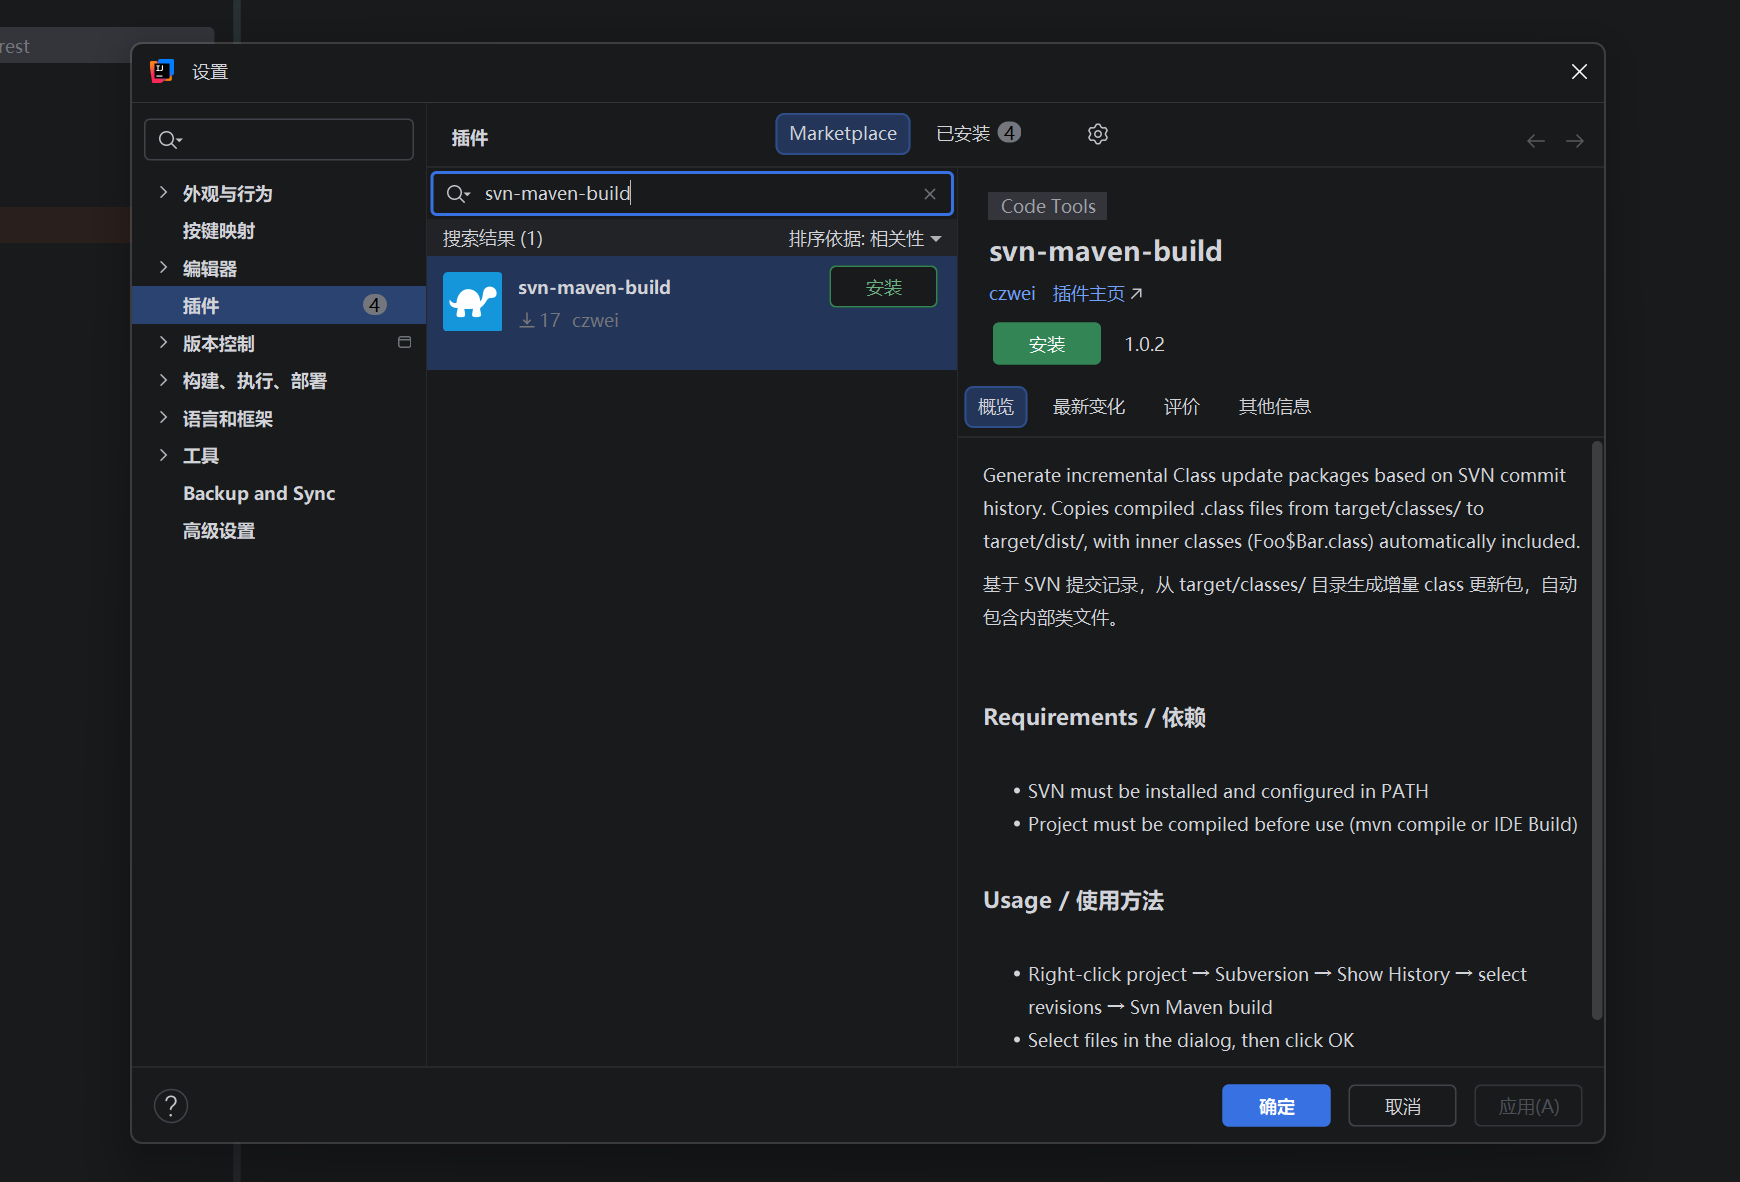
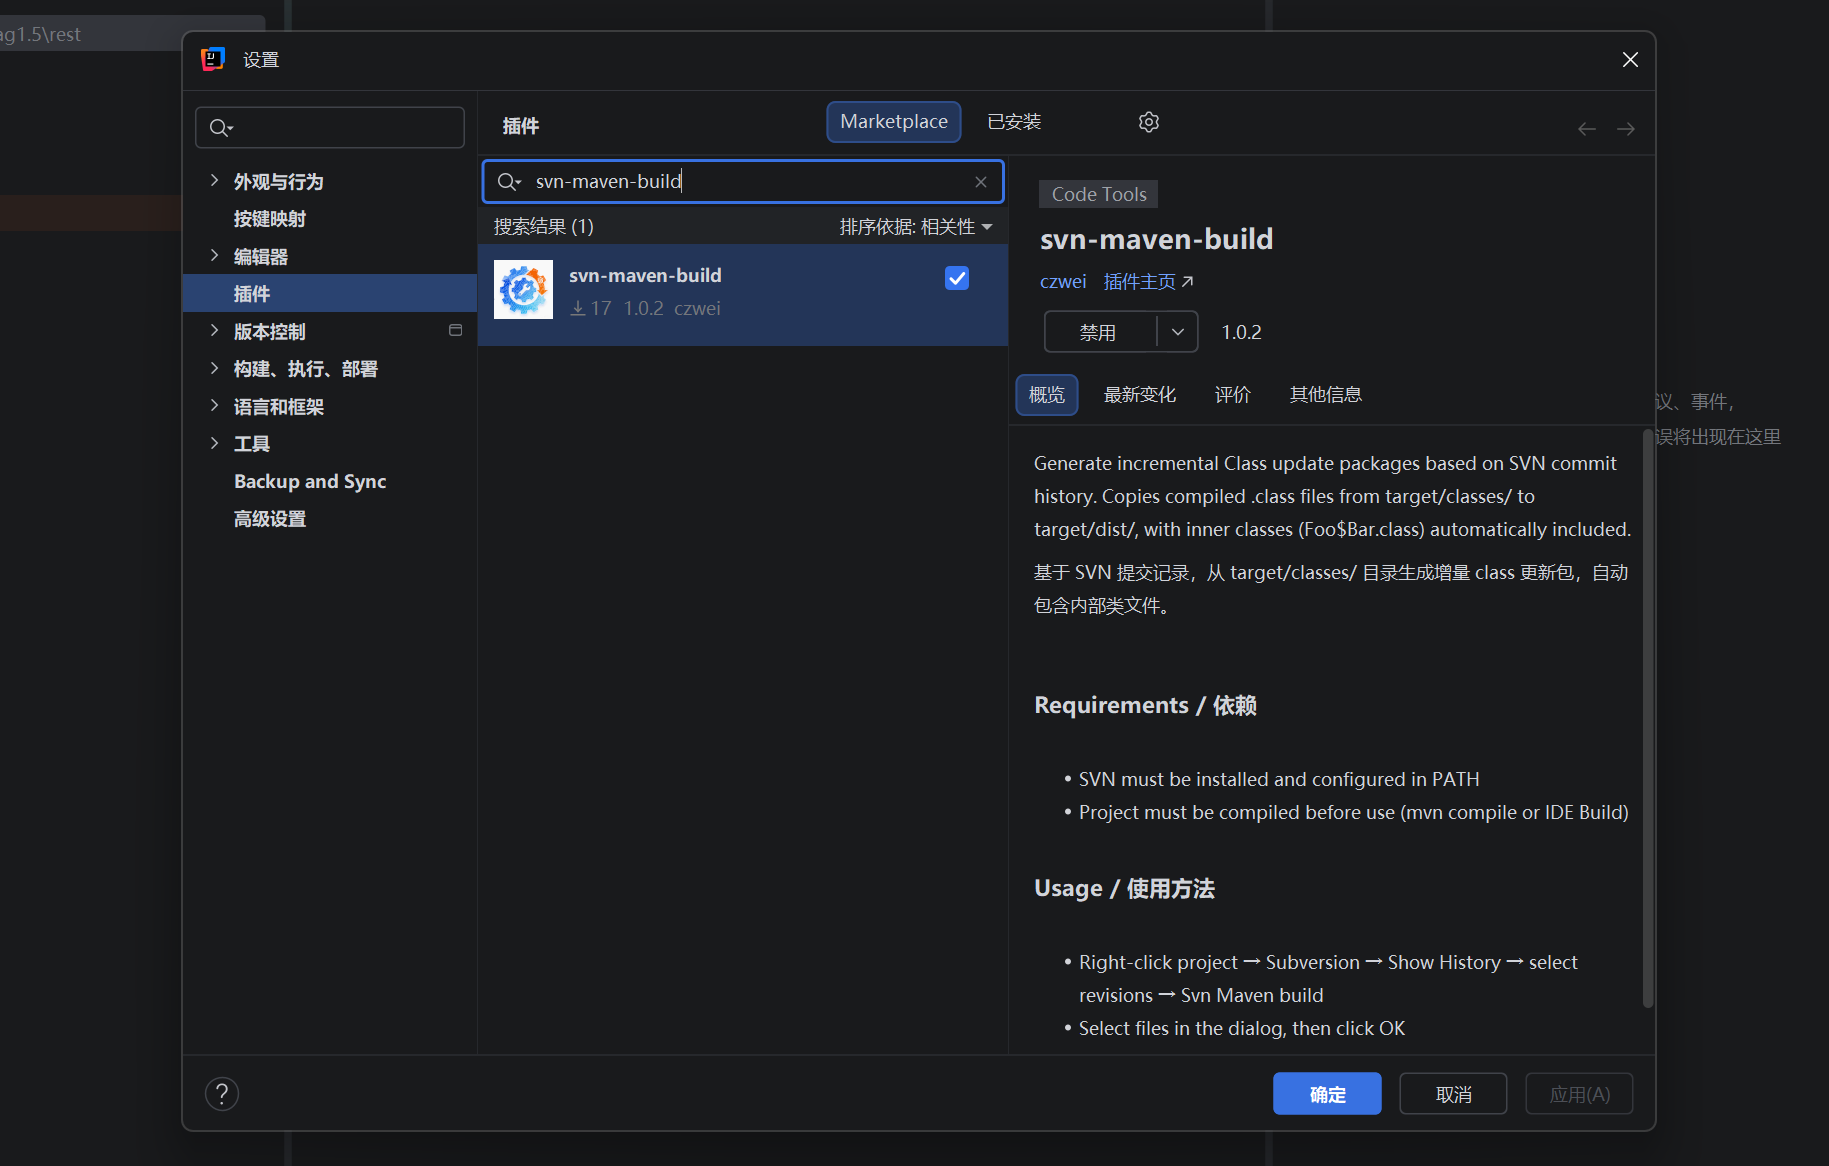
【优化】去掉gradle的wrapper模式，本地安装gradle；更新gradle到9.5.1版本，兼容2026.1

diff --git a/src/main/java/com/example/subversionMavenIncrement/service/CheckUpService.java b/src/main/java/com/example/subversionMavenIncrement/service/CheckUpService.java
@@ -5,7 +5,7 @@ import com.example.subversionMavenIncrement.util.NotifyUtil;
 import com.intellij.openapi.actionSystem.DataContext;
 import com.intellij.openapi.project.Project;
 import com.intellij.openapi.ui.Messages;
-import com.intellij.openapi.vcs.vfs.VcsVirtualFolder;
+import com.intellij.openapi.vfs.VirtualFile;
 
 import org.dom4j.Document;
 import org.dom4j.DocumentHelper;
@@ -40,8 +40,8 @@ public class CheckUpService {
 
         RESOLVE_ADDRESS = null;
 
-        VcsVirtualFolder filePathOn = (VcsVirtualFolder) com.intellij.openapi.vcs.VcsDataKeys.VCS_VIRTUAL_FILE.getData(dataContext);
-        String vcsPath = filePathOn.getPath();
+        VirtualFile virtualFile = (VirtualFile) com.intellij.openapi.vcs.VcsDataKeys.VCS_VIRTUAL_FILE.getData(dataContext);
+        String vcsPath = virtualFile.getPath();
 
         // VCS_VIRTUAL_FILE 可能指向子目录（如 src/），向上查找真正的模块根目录
         String moduleRoot = resolveModuleRoot(vcsPath);